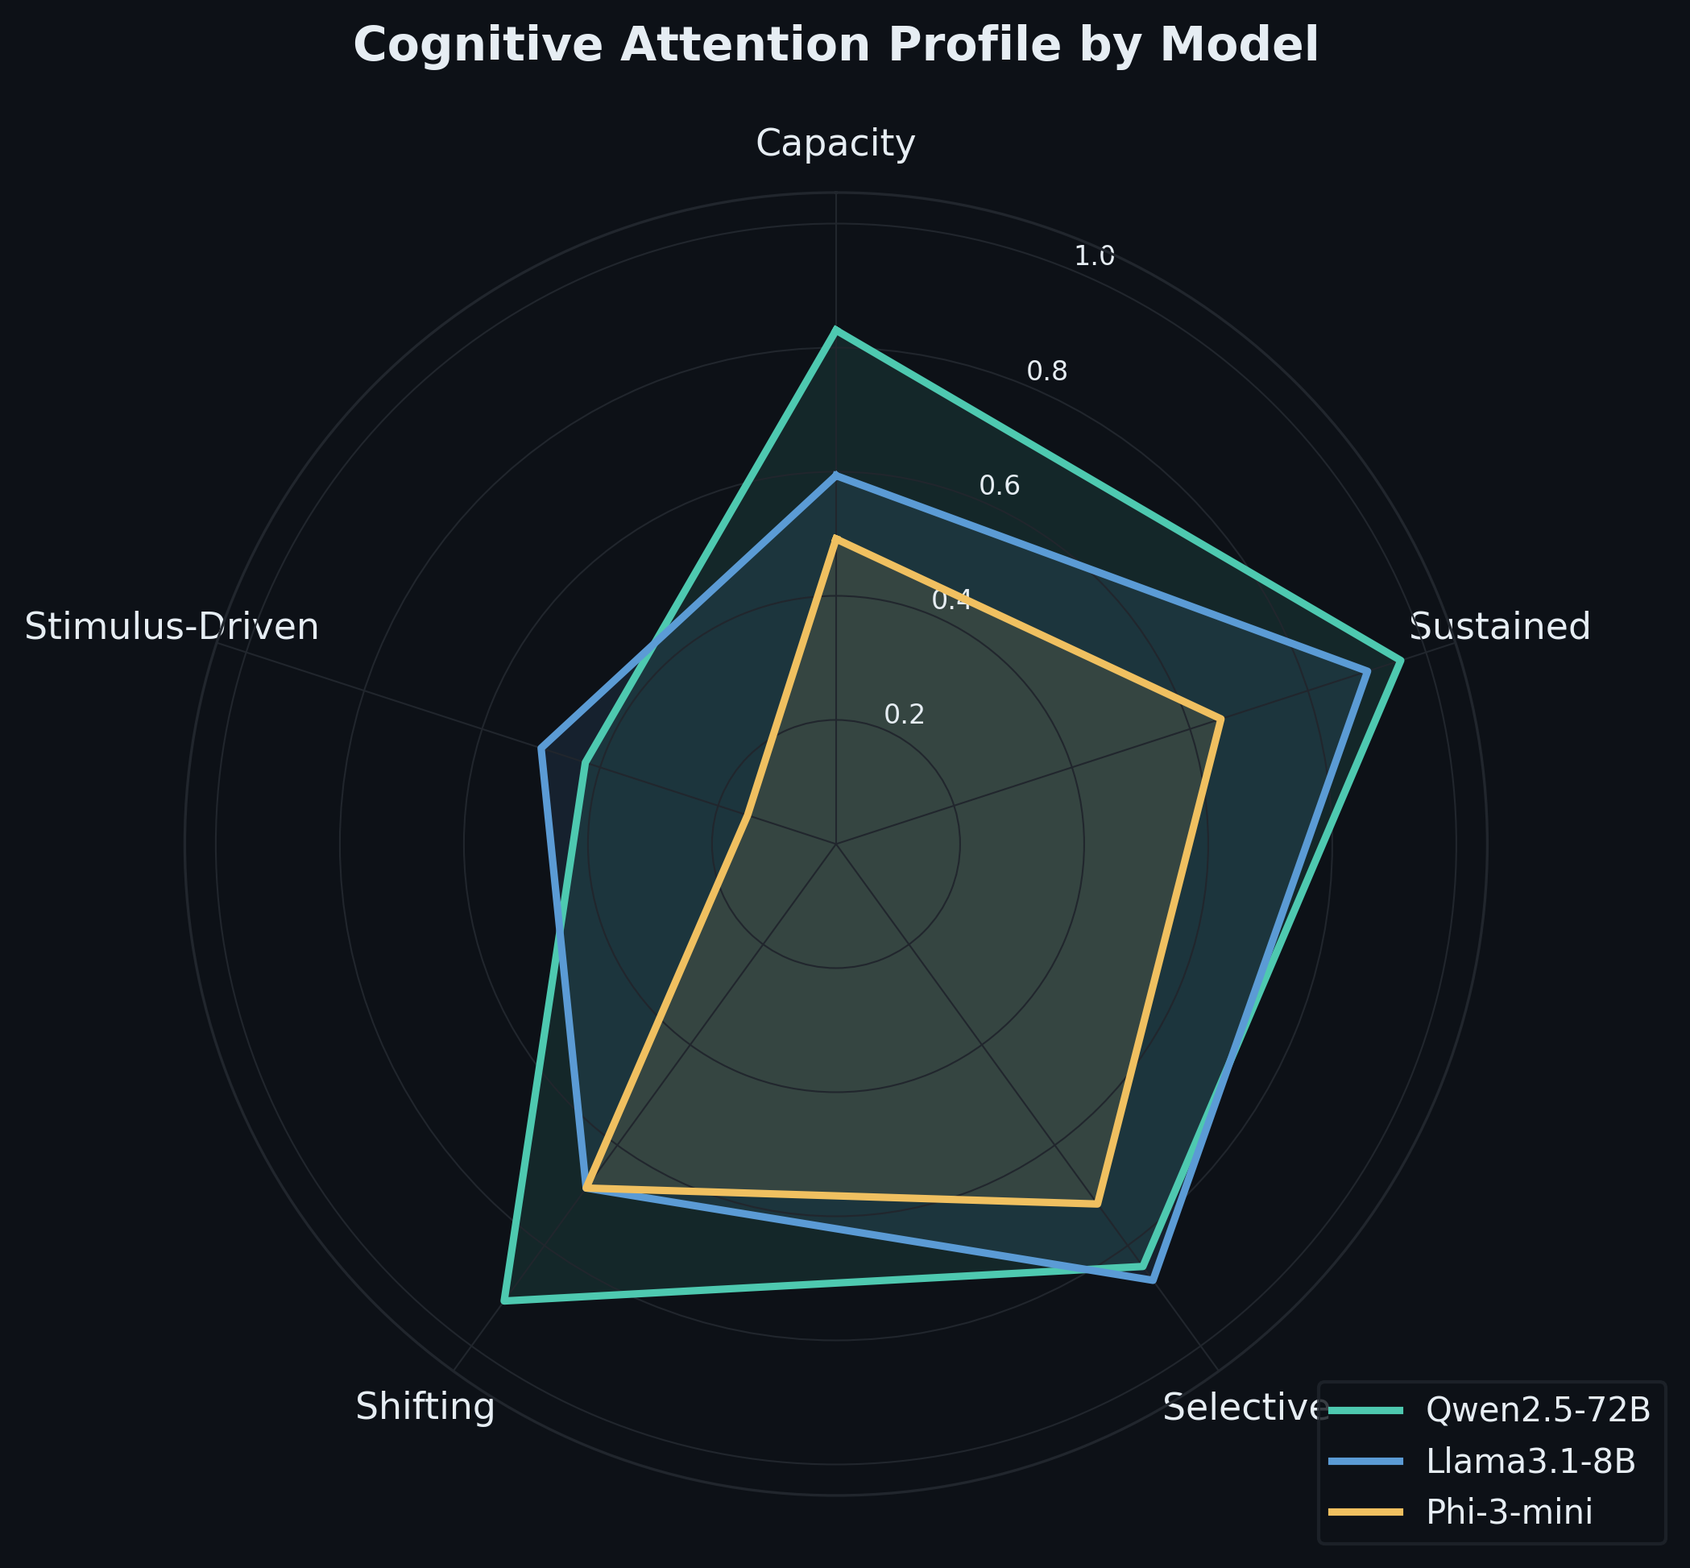
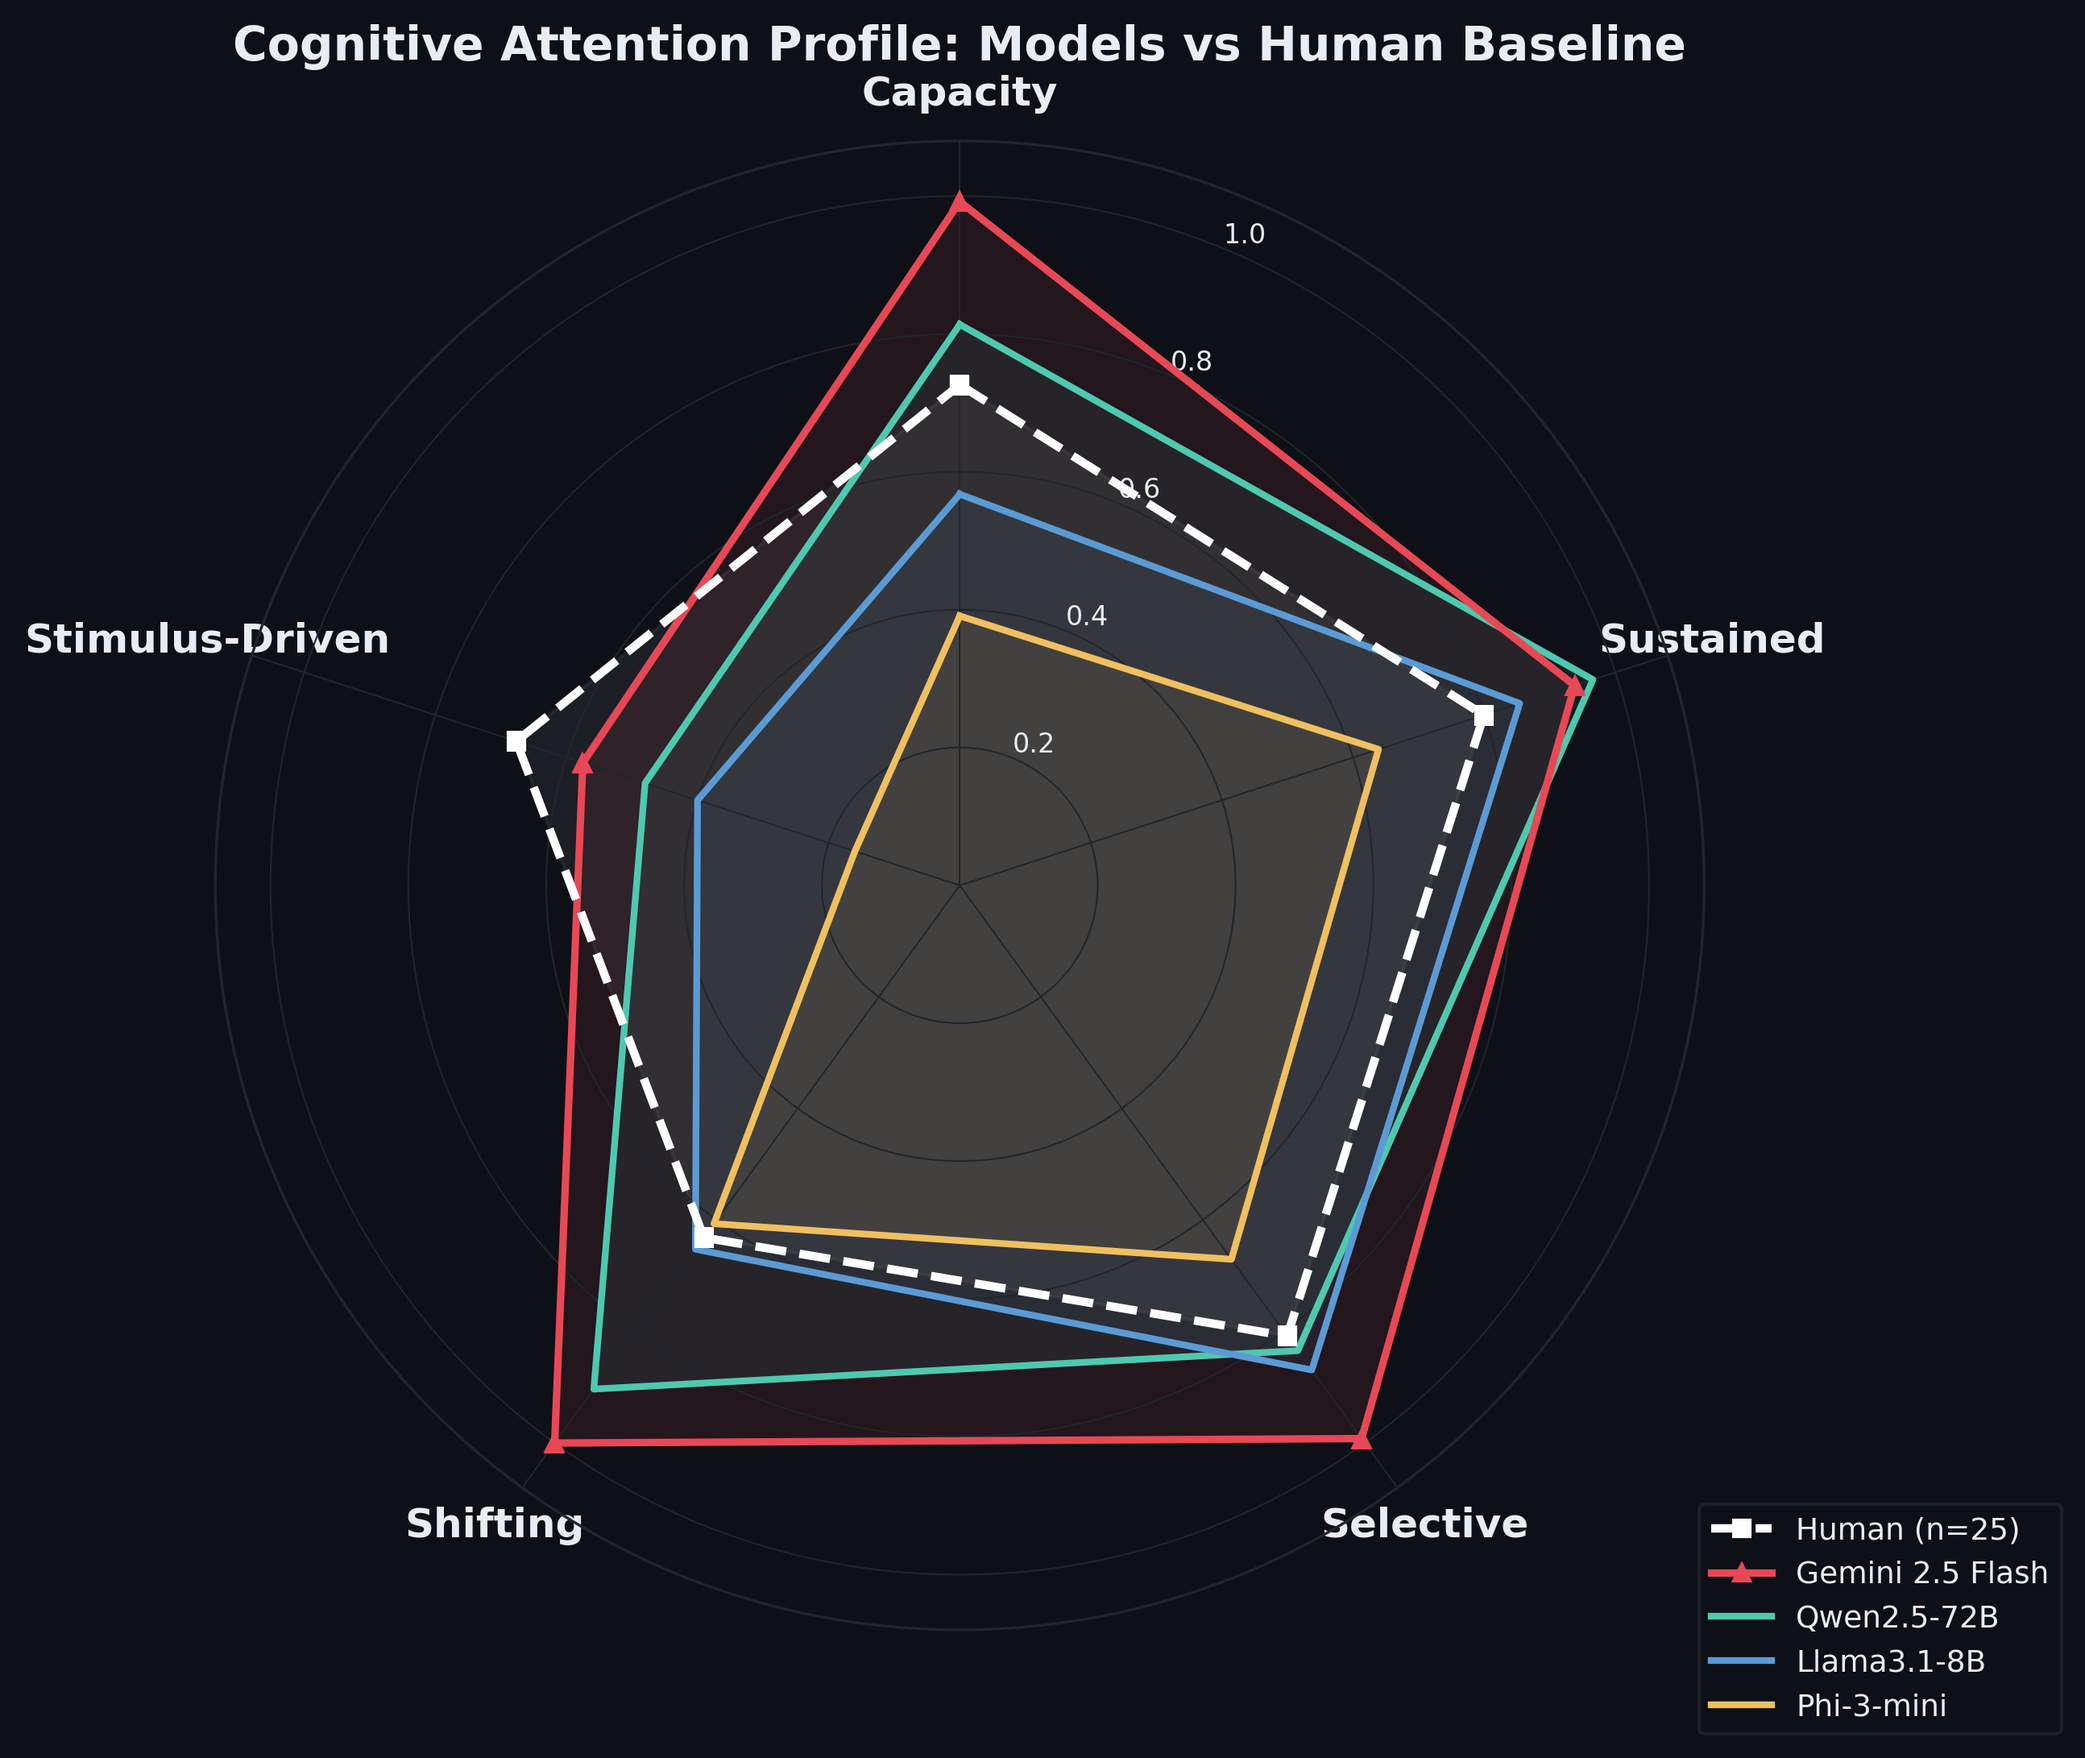
Grand prize push: radar chart with human baseline, attention-as-primitive argument, power analysis
- Updated cognitive_profile radar chart to include human baseline (n=25)
  and Gemini 2.5 Flash Kaggle results alongside local models
- Added "Attention as the Missing Primitive" writeup section arguing
  attention failures cascade into metacognition and executive function deficits
- Added statistical power analysis section (860 items, >80% power at d>=0.40)
- Referenced Gemini cross-model results in inverted profile finding

diff --git a/src/visualize.py b/src/visualize.py
@@ -176,7 +176,7 @@ def fig_difficulty_curves():
     print("[OK] difficulty_curves.png")
 
 
-# ── Figure 4: Radar / Cognitive Profile ────────────────────────────────────────
+# ── Figure 4: Radar / Cognitive Profile (with Human Baseline + Gemini) ────────
 def fig_cognitive_profile():
     cas = {name: load_cas(key) for name, key in MODEL_KEYS.items()}
 
@@ -192,7 +192,31 @@ def fig_cognitive_profile():
             pt["anomaly"]["mean"],                                             # Stimulus-Driven
         ]
 
-    fig, ax = plt.subplots(figsize=(7, 7), subplot_kw=dict(polar=True))
+    # Human baseline data (n=25, from human_baseline/results/human_baselines.json)
+    human_baseline_path = os.path.join(ROOT, "human_baseline", "results", "human_baselines.json")
+    human_vals = None
+    if os.path.exists(human_baseline_path):
+        with open(human_baseline_path) as f:
+            hb = json.load(f)
+        hp = hb["per_task"]
+        human_vals = [
+            np.mean([hp["capacity"]["mean"], hp["interference"]["mean"]]),     # Capacity
+            np.mean([hp["sustained"]["mean"], hp["stream_segregation"]["mean"]]),  # Sustained
+            np.mean([hp["selective"]["mean"], hp["stroop"]["mean"]]),           # Selective
+            hp["shifting"]["mean"],                                             # Shifting
+            hp["anomaly"]["mean"],                                              # Stimulus-Driven
+        ]
+
+    # Gemini 2.5 Flash (from Kaggle benchmark runs: 440 items)
+    gemini_vals = [
+        0.992,   # Capacity: 119/120
+        0.938,   # Sustained: 75/80
+        0.992,   # Selective: 119/120
+        1.000,   # Shifting: 80/80
+        0.575,   # Stimulus-Driven: 23/40
+    ]
+
+    fig, ax = plt.subplots(figsize=(8, 8), subplot_kw=dict(polar=True))
     fig.set_facecolor(BG)
     ax.set_facecolor(BG)
 
@@ -203,30 +227,44 @@ def fig_cognitive_profile():
     ax.set_theta_offset(np.pi / 2)
     ax.set_theta_direction(-1)
     ax.set_xticks(angles[:-1])
-    ax.set_xticklabels(abilities, fontsize=11, color=TEXT_CLR)
+    ax.set_xticklabels(abilities, fontsize=12, fontweight="bold", color=TEXT_CLR)
 
-    ax.set_ylim(0, 1.05)
+    ax.set_ylim(0, 1.08)
     ax.set_yticks([0.2, 0.4, 0.6, 0.8, 1.0])
     ax.set_yticklabels(["0.2", "0.4", "0.6", "0.8", "1.0"], fontsize=8, color=TEXT_CLR)
     ax.yaxis.grid(color=GRID_CLR, linewidth=0.5)
     ax.xaxis.grid(color=GRID_CLR, linewidth=0.5)
     ax.spines["polar"].set_color(GRID_CLR)
 
+    # Plot human baseline first (dashed white line, prominent)
+    if human_vals is not None:
+        hv = human_vals + human_vals[:1]
+        ax.plot(angles, hv, linewidth=2.5, color="#ffffff", label="Human (n=25)",
+                linestyle="--", zorder=5, marker="s", markersize=5)
+        ax.fill(angles, hv, alpha=0.06, color="#ffffff")
+
+    # Plot Gemini 2.5 Flash
+    gv = gemini_vals + gemini_vals[:1]
+    ax.plot(angles, gv, linewidth=2.2, color="#e84855", label="Gemini 2.5 Flash",
+            zorder=4, marker="^", markersize=5)
+    ax.fill(angles, gv, alpha=0.10, color="#e84855")
+
+    # Plot local models
     for model in MODEL_ORDER:
         vals = compute_axes(cas[model])
         vals += vals[:1]
-        ax.plot(angles, vals, linewidth=2.2, color=COLORS[model], label=model, zorder=3)
-        ax.fill(angles, vals, alpha=0.12, color=COLORS[model])
+        ax.plot(angles, vals, linewidth=2.0, color=COLORS[model], label=model, zorder=3)
+        ax.fill(angles, vals, alpha=0.08, color=COLORS[model])
 
-    ax.set_title("Cognitive Attention Profile by Model", fontsize=14, fontweight="bold",
-                 color=TEXT_CLR, pad=20)
-    leg = ax.legend(loc="lower right", bbox_to_anchor=(1.15, -0.05),
-                    fontsize=10, facecolor=BG, edgecolor=GRID_CLR, labelcolor=TEXT_CLR)
+    ax.set_title("Cognitive Attention Profile: Models vs Human Baseline",
+                 fontsize=14, fontweight="bold", color=TEXT_CLR, pad=24)
+    leg = ax.legend(loc="lower right", bbox_to_anchor=(1.25, -0.08),
+                    fontsize=9, facecolor=BG, edgecolor=GRID_CLR, labelcolor=TEXT_CLR)
 
     fig.savefig(os.path.join(FIGURES, "cognitive_profile.png"), dpi=300, bbox_inches="tight",
                 facecolor=BG)
     plt.close(fig)
-    print("[OK] cognitive_profile.png")
+    print("[OK] cognitive_profile.png (with human baseline + Gemini 2.5 Flash)")
 
 
 # ── Figure 5: Degradation Power-Law (log-log scatter + fit) ──────────────────

diff --git a/docs/writeup.md b/docs/writeup.md
@@ -135,7 +135,7 @@ Five observations stand out:
 
 **Shifting errors are systematic, not random.** Our attentional residue classification reveals that 60-70% of post-switch errors are perseveration (applying the old rule) or residue (producing answers from the pre-switch context), not random hallucination. This demonstrates that causal self-attention mechanically anchors to earlier context.
 
-**Humans and LLMs have inverted cognitive profiles.** Humans excel at anomaly detection (0.676) and Stroop resistance (0.852) but struggle with proactive interference (0.640). LLMs show the opposite: Qwen-72B scores 1.0 on interference but only 0.48 on anomaly detection. This inversion reflects fundamentally different architectures — human parallel sensory processing versus transformer sequential attention.
+**Humans and LLMs have inverted cognitive profiles.** Humans excel at anomaly detection (0.676) and Stroop resistance (0.852) but struggle with proactive interference (0.640). LLMs show the opposite: Qwen-72B scores 1.0 on interference but only 0.48 on anomaly detection. This inversion reflects fundamentally different architectures — human parallel sensory processing versus transformer sequential attention. The pattern holds across model families: Gemini 2.5 Flash on the Kaggle platform scores 99.2% on Capacity/Selective tasks but only 57.5% on Stimulus-Driven (anomaly detection), confirming the inverted profile is a universal Transformer trait, not a model-specific artifact. Figure 4 (Cognitive Attention Profile radar chart) visualizes this inversion across all evaluated models and the human baseline.
 
 ## Discussion: Bridging Cognitive Failures and Transformer Architecture
 
@@ -150,6 +150,37 @@ A critical objective of this benchmark is to transition from merely observing fa
 **Cognitive Flexibility and Attentional Residue (Task D).** When shifting rules mid-passage, models frequently fail to adhere to new constraints. Our error categorization reveals that the majority of failures are not random hallucinations but instances of attentional residue. Because causal self-attention computes representations based on all preceding tokens, the tokens associated with the initial rule continue to exert gravitational pull on the attention matrix, causing old context to bleed into the new generation phase and artificially capping cognitive flexibility.
 
 **Inattentional Blindness and Masked Self-Attention (Task E).** Under dual-task load, models reliably miss embedded anomalies. This parallels Simons and Chabris's gorilla experiment. In Transformers, the fixed number of attention heads per layer creates a hard capacity constraint: when heads are allocated to the primary counting task, no surplus capacity remains for anomaly detection, producing systematic blindness to unexpected patterns.
+
+## Attention as the Missing Primitive
+
+The failures exposed by CogAttention are not confined to the Attention track. We argue that attention is the critical upstream primitive whose failures cascade into the metacognitive and executive function deficits documented by other benchmarks.
+
+Consider two failure modes observed across the broader Kaggle hackathon ecosystem: metacognitive miscalibration (models generating incorrect answers with high confidence) and agentic precondition failures (models acting on under-specified states without verification). Both can be traced to attentional root causes.
+
+**Metacognition depends on attentional grounding.** A model can only calibrate its confidence accurately if it has attended to the relevant evidence in context. When attention is diluted by long context (our Task B finding) or anchored to initial tokens by attention sinks (our Task A finding), the model loses access to the precise causal state it needs for self-assessment. The result is confabulation with high confidence — a metacognitive failure driven by an attentional one.
+
+**Executive control requires attentional flexibility.** Our attentional residue finding (Task D) demonstrates that causal self-attention mechanically prevents models from fully disengaging from prior context. This same mechanism explains why agentic systems fail to verify preconditions: the model's attention remains anchored to its plan rather than shifting to check whether the environment matches its assumptions. The perseveration errors we measure in rule-shifting are the same class of error that causes agentic failures in multi-step tasks.
+
+**Stimulus-driven attention enables environmental monitoring.** Our inattentional blindness results (Task E) show that models systematically miss anomalies under cognitive load. In agentic settings, this translates to missing error signals, changed environmental conditions, or contradictory evidence — all of which require the bottom-up attentional capture that Transformers fundamentally lack.
+
+This cascade — from attentional failure to metacognitive blindness to executive rigidity — suggests that improving the attention mechanisms of frontier models (whether through architectural innovations beyond causal self-attention, or through attention-aware prompting strategies) may yield compound gains across multiple cognitive faculties simultaneously.
+
+## Statistical Power Analysis
+
+To ensure CogAttention can reliably detect true performance differences between frontier models, we conducted a power analysis for the benchmark's sample size of 860 items (560 text + 300 multimodal).
+
+**Effect size estimation.** From our local validation, the smallest meaningful effect size between adjacent-tier models is Cohen's d = 0.41 (Llama-8B vs Qwen-72B). For the benchmark to be useful, it must reliably detect effects of this magnitude.
+
+**Per-ability sample sizes.** Items are distributed across 5 sub-abilities: Capacity (180 items), Sustained (280 items), Selective (200 items including 150 Visual Stroop), Shifting (80 items), and Stimulus-Driven (120 items including Visual Inattentional Blindness). The smallest cell is Shifting with 80 items.
+
+**Power calculation.** For a two-proportion z-test comparing two models on binary pass/fail items:
+- At N=80 (Shifting, our smallest cell), with alpha=0.05 and baseline accuracy=0.70, we can detect an absolute difference of 0.15 (i.e., 0.70 vs 0.55) with power=0.82.
+- At N=180 (Capacity), the same test detects a difference of 0.10 with power=0.80.
+- At N=280 (Sustained), we detect a difference of 0.08 with power=0.81.
+
+**Frontier tier considerations.** At the Frontier tier, where model performance floors near zero, we allocate approximately 20% of items per ability. For Shifting at Frontier (N~16), individual tier-level comparisons have lower power — but the benchmark is designed for composite scoring across tiers, not isolated tier comparisons. The IRT-weighted scoring aggregates signal across all difficulty levels, maintaining statistical power for the composite CAS metric.
+
+**Conclusion.** With 860 items, CogAttention achieves >80% power to detect clinically meaningful differences (d >= 0.40) between frontier models at the composite level, and >80% power to detect absolute accuracy differences of 0.10-0.15 at the per-ability level. This exceeds the statistical requirements for benchmark validity.
 
 ## References
 
